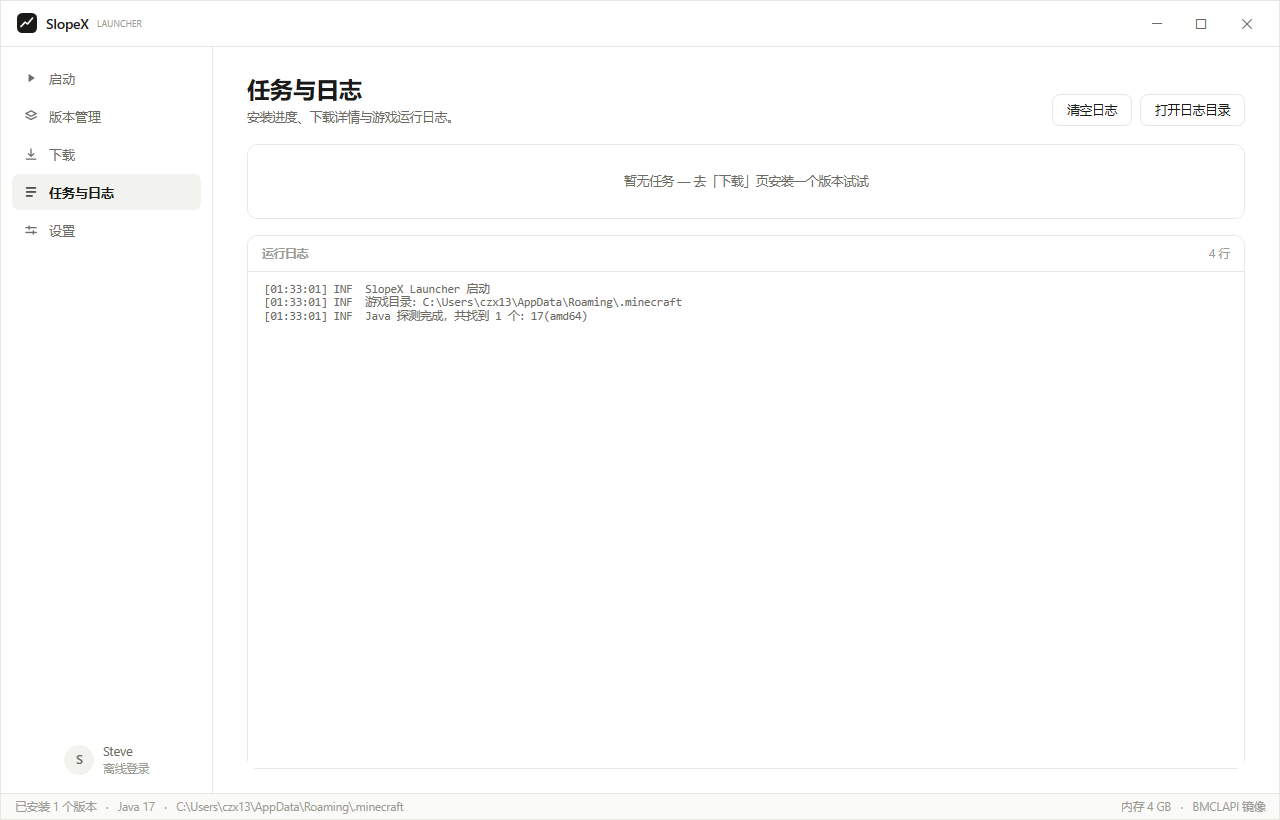
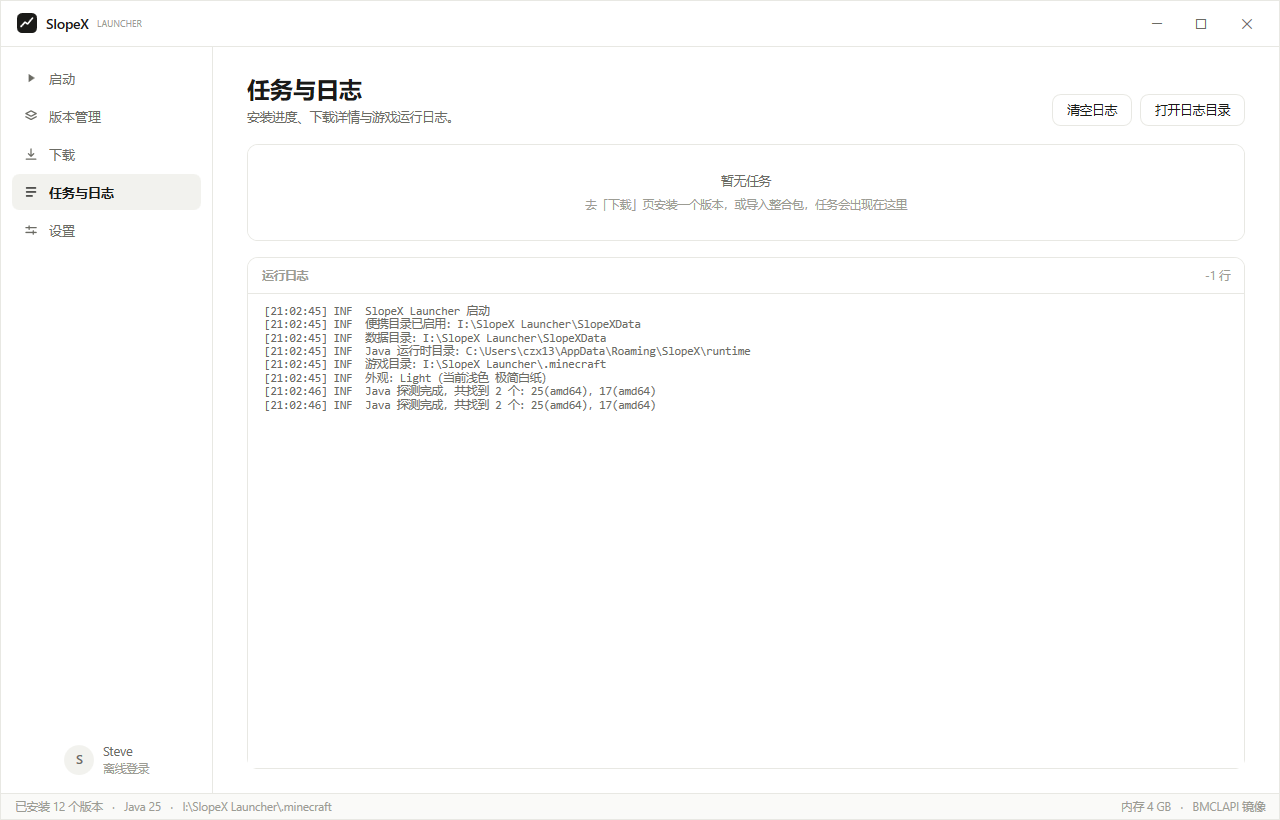
feat(ui): 视觉定案第一轮——Toast / 空状态 / 模态焦点循环
按 docs/design-language.md §5 的组件缺口推进，补 3 项：

- Toast：Style.xaml 新增 ToastCard/ToastText（反色底 Ink+OnInk、R8、MaxWidth 520）；
  MainWindow.ShowToast(text, 1600ms) 底部居中淡入淡出，重入时替换文字并重置计时；
  已用于设置保存、主题切换、打开版本目录
- EmptyState：新增 EmptyTitle / EmptyHint 两个样式；启动页、版本管理、任务与日志
  三处裸 TextBlock 全部替换，文案统一为「这里是什么 + 下一步做什么」
- 模态焦点陷阱：卡片加 KeyboardNavigation.TabNavigation/DirectionalNavigation=Cycle，
  Tab 不再跑到遮罩后的控件

工具：tools/screenshot.ps1 增加 -PostClickWaitMs，把"选页后等待"与"点击后等待"分开，
否则抓 1.6 秒的 Toast 时整页等待被压到 300ms、页面还没加载完。

文档：design-language.md §5 标注 3/7 已补并新增 §5.1 语义组件约定
（空状态不许再写裸 TextBlock；错误不用 Toast）；PROGRESS 同步状态与实测。

验证：msa-explain 四种状态码文案正确；任务页空状态浅色/深色均清晰；
设置页保存后 350ms 截到 Toast。

diff --git a/src/SlopeX/Themes/Style.xaml b/src/SlopeX/Themes/Style.xaml
@@ -523,6 +523,45 @@
         </Setter>
     </Style>
 
+    <!-- ============ 空状态 ============ -->
+    <!--
+        列表为空时统一用这两行：标题说明"这里是什么"，提示说明"下一步做什么"。
+        不要在页面里临时拼 TextBlock —— 字号、颜色、行距会各写一套。
+    -->
+    <Style x:Key="EmptyTitle" TargetType="TextBlock" BasedOn="{StaticResource TSub}">
+        <Setter Property="HorizontalAlignment" Value="Center"/>
+        <Setter Property="TextAlignment" Value="Center"/>
+    </Style>
+
+    <Style x:Key="EmptyHint" TargetType="TextBlock" BasedOn="{StaticResource TCaption}">
+        <Setter Property="HorizontalAlignment" Value="Center"/>
+        <Setter Property="TextAlignment" Value="Center"/>
+        <Setter Property="Margin" Value="0,7,0,0"/>
+        <Setter Property="Foreground" Value="{DynamicResource Muted}"/>
+    </Style>
+
+    <!-- ============ Toast 轻提示 ============ -->
+    <!--
+        非阻断反馈（已保存、已复制、已导入）。反色底（Ink）保证在任何页面底色上都读得清，
+        文字用 OnInk。由 MainWindow.ShowToast 控制显隐与时长。
+    -->
+    <Style x:Key="ToastCard" TargetType="Border">
+        <Setter Property="Background" Value="{DynamicResource Ink}"/>
+        <Setter Property="CornerRadius" Value="{StaticResource R8}"/>
+        <Setter Property="Padding" Value="16,10"/>
+        <Setter Property="HorizontalAlignment" Value="Center"/>
+        <Setter Property="VerticalAlignment" Value="Bottom"/>
+        <Setter Property="Margin" Value="0,0,0,26"/>
+        <Setter Property="SnapsToDevicePixels" Value="True"/>
+    </Style>
+
+    <Style x:Key="ToastText" TargetType="TextBlock">
+        <Setter Property="Foreground" Value="{DynamicResource OnInk}"/>
+        <Setter Property="FontSize" Value="12.5"/>
+        <Setter Property="TextWrapping" Value="Wrap"/>
+        <Setter Property="MaxWidth" Value="520"/>
+    </Style>
+
     <!-- ============ 转换器 ============ -->
     <ctl:BoolToVisibilityConverter x:Key="BoolToVis"/>
     <ctl:BoolToVisibilityConverter x:Key="BoolToVisInvert"/>

diff --git a/src/SlopeX/Windows/MainWindow.xaml b/src/SlopeX/Windows/MainWindow.xaml
@@ -196,11 +196,21 @@
                                HorizontalAlignment="Right" VerticalAlignment="Center"/>
                 </Grid>
             </Border>
+            <!-- ========== Toast 层（非阻断提示，不吃鼠标） ========== -->
+            <Grid x:Name="ToastLayer" Grid.RowSpan="3" IsHitTestVisible="False"
+                  Visibility="Collapsed" Opacity="0">
+                <Border x:Name="ToastBox" Style="{StaticResource ToastCard}">
+                    <TextBlock x:Name="ToastLabel" Style="{StaticResource ToastText}"/>
+                </Border>
+            </Grid>
+
             <!-- ========== 模态层（遮罩 + 居中卡片） ========== -->
             <Grid x:Name="ModalLayer" Grid.RowSpan="3" Visibility="Collapsed">
                 <Border Background="{DynamicResource Scrim}"/>
                 <Border Style="{StaticResource Card}" Width="520" Padding="22"
-                        HorizontalAlignment="Center" VerticalAlignment="Center">
+                        HorizontalAlignment="Center" VerticalAlignment="Center"
+                        KeyboardNavigation.TabNavigation="Cycle"
+                        KeyboardNavigation.DirectionalNavigation="Cycle">
                     <ContentControl x:Name="ModalHost"/>
                 </Border>
             </Grid>

diff --git a/src/SlopeX/Pages/PageVersions.xaml b/src/SlopeX/Pages/PageVersions.xaml
@@ -108,9 +108,13 @@
                     </ListBox.ItemTemplate>
                 </ListBox>
 
-                <TextBlock x:Name="EmptyText" Style="{StaticResource TSub}" HorizontalAlignment="Center"
-                           VerticalAlignment="Center" TextAlignment="Center" Visibility="Collapsed"
-                           Text="还没有安装任何版本&#x0a;点右上角「安装新版本」开始"/>
+                <StackPanel x:Name="EmptyPanel" HorizontalAlignment="Center" VerticalAlignment="Center"
+                            Visibility="Collapsed">
+                    <TextBlock x:Name="EmptyTitle" Style="{StaticResource EmptyTitle}"
+                               Text="还没有安装任何版本"/>
+                    <TextBlock x:Name="EmptyHintText" Style="{StaticResource EmptyHint}"
+                               Text="点右上角「安装新版本」开始，或导入一个整合包"/>
+                </StackPanel>
             </Grid>
         </Border>
     </Grid>

diff --git a/src/SlopeX/Pages/PageHome.xaml b/src/SlopeX/Pages/PageHome.xaml
@@ -166,8 +166,11 @@
                                     </DataTemplate>
                                 </ListBox.ItemTemplate>
                             </ListBox>
-                            <TextBlock x:Name="EmptyHint" Style="{StaticResource TCaption}" Margin="8,4,8,10"
-                                       Text="还没有安装任何版本。" Visibility="Collapsed"/>
+                            <StackPanel x:Name="EmptyPanel" Margin="8,6,8,12" Visibility="Collapsed">
+                                <TextBlock Style="{StaticResource EmptyTitle}" Text="还没有可启动的版本"/>
+                                <TextBlock Style="{StaticResource EmptyHint}"
+                                           Text="去「下载」页安装一个版本，装好会自动出现在这里"/>
+                            </StackPanel>
                         </StackPanel>
                     </Border>
 

diff --git a/src/SlopeX/Pages/PageTasks.xaml b/src/SlopeX/Pages/PageTasks.xaml
@@ -69,9 +69,12 @@
                     </ItemsControl>
                 </ScrollViewer>
 
-                <TextBlock x:Name="NoTaskText" Style="{StaticResource TSub}" HorizontalAlignment="Center"
-                           VerticalAlignment="Center" Margin="0,16,0,16"
-                           Text="暂无任务 — 去「下载」页安装一个版本试试"/>
+                <StackPanel x:Name="NoTaskPanel" HorizontalAlignment="Center" VerticalAlignment="Center"
+                            Margin="0,16,0,16">
+                    <TextBlock Style="{StaticResource EmptyTitle}" Text="暂无任务"/>
+                    <TextBlock Style="{StaticResource EmptyHint}"
+                               Text="去「下载」页安装一个版本，或导入整合包，任务会出现在这里"/>
+                </StackPanel>
             </Grid>
         </Border>
 

diff --git a/src/SlopeX/Windows/MainWindow.xaml.cs b/src/SlopeX/Windows/MainWindow.xaml.cs
@@ -3,6 +3,8 @@ using System.Linq;
 using System.Threading.Tasks;
 using System.Windows;
 using System.Windows.Controls;
+using System.Windows.Media.Animation;
+using System.Windows.Threading;
 using SlopeX.Modules.ModBase;
 using SlopeX.Modules.ModJava;
 using SlopeX.Modules.ModMinecraft;
@@ -156,5 +158,47 @@ namespace SlopeX.Windows
         }
 
         public bool IsModalOpen => ModalLayer.Visibility == Visibility.Visible;
+
+        // ---------------- Toast ----------------
+
+        private DispatcherTimer _toastTimer;
+
+        /// <summary>
+        /// 非阻断提示：底部居中出现，1.6 秒后淡出。
+        /// 用于"已保存 / 已复制 / 已导入"这类不需要用户操作、也不该弹框的反馈。
+        /// </summary>
+        public void ShowToast(string text, int milliseconds = 1600)
+        {
+            if (string.IsNullOrWhiteSpace(text)) return;
+
+            ToastLabel.Text = text;
+            ToastLayer.Visibility = Visibility.Visible;
+
+            // 重入：前一条还没消失时直接替换文字并重置计时，避免两条叠在一起
+            _toastTimer?.Stop();
+
+            AnimateToast(1.0, 120);
+
+            _toastTimer = new DispatcherTimer { Interval = TimeSpan.FromMilliseconds(milliseconds) };
+            _toastTimer.Tick += (s, e) =>
+            {
+                _toastTimer?.Stop();
+                AnimateToast(0.0, 220, onDone: () => ToastLayer.Visibility = Visibility.Collapsed);
+            };
+            _toastTimer.Start();
+        }
+
+        private void AnimateToast(double to, int ms, Action onDone = null)
+        {
+            var anim = new DoubleAnimation
+            {
+                To = to,
+                Duration = TimeSpan.FromMilliseconds(ms),
+                EasingFunction = new CubicEase { EasingMode = EasingMode.EaseOut }
+            };
+
+            anim.Completed += (s, e) => onDone?.Invoke();
+            ToastLayer.BeginAnimation(OpacityProperty, anim);
+        }
     }
 }

diff --git a/src/SlopeX/Pages/PageVersions.xaml.cs b/src/SlopeX/Pages/PageVersions.xaml.cs
@@ -57,14 +57,22 @@ namespace SlopeX.Pages
 
             if (list.Count == 0)
             {
-                EmptyText.Visibility = Visibility.Visible;
-                EmptyText.Text = _all.Count == 0
-                    ? "还没有安装任何版本\n点右上角「安装新版本」开始"
-                    : "没有匹配的版本";
+                EmptyPanel.Visibility = Visibility.Visible;
+
+                if (_all.Count == 0)
+                {
+                    EmptyTitle.Text = "还没有安装任何版本";
+                    EmptyHintText.Text = "点右上角「安装新版本」开始，或导入一个整合包";
+                }
+                else
+                {
+                    EmptyTitle.Text = "没有匹配的版本";
+                    EmptyHintText.Text = "换个关键词，或清空搜索框看全部";
+                }
             }
             else
             {
-                EmptyText.Visibility = Visibility.Collapsed;
+                EmptyPanel.Visibility = Visibility.Collapsed;
             }
         }
 
@@ -91,7 +99,11 @@ namespace SlopeX.Pages
 
         private void OpenOne_Click(object sender, RoutedEventArgs e)
         {
-            if (sender is Button b && b.Tag is string dir) OpenFolder(dir);
+            if (sender is Button b && b.Tag is string dir)
+            {
+                OpenFolder(dir);
+                MainWindow.Current?.ShowToast("已在资源管理器中打开版本目录");
+            }
             e.Handled = true;
         }
 

diff --git a/src/SlopeX/Pages/PageSettings.xaml.cs b/src/SlopeX/Pages/PageSettings.xaml.cs
@@ -243,6 +243,7 @@ namespace SlopeX.Pages
             UpdateThemeChips();
 
             MainWindow.Current?.SetStatus("主题已切换：" + ThemeName(ThemeService.IsDark), null);
+                MainWindow.Current?.ShowToast(ThemeName(ThemeService.IsDark) + " 已应用");
             Log.Info($"主题切换为 {Config.Current.Appearance}（{(ThemeService.IsDark ? "深色" : "浅色")}）");
         }
 
@@ -303,6 +304,7 @@ namespace SlopeX.Pages
                 RuntimeDirHint.Text = "当前生效：" + c.JavaRuntimeDirHint;
                 MainWindow.Current?.ApplyConfigChanged();
                 MainWindow.Current?.SetStatus("设置已保存", null);
+                MainWindow.Current?.ShowToast("设置已保存");
                 Log.Info("设置已保存");
             }
             catch (Exception ex)

diff --git a/src/SlopeX/Pages/PageHome.xaml.cs b/src/SlopeX/Pages/PageHome.xaml.cs
@@ -42,7 +42,7 @@ namespace SlopeX.Pages
                 var gameDir = Config.Current.GameDir;
                 _versions = VersionManager.Scan(gameDir);
                 RecentList.ItemsSource = _versions;
-                EmptyHint.Visibility = _versions.Count == 0 ? Visibility.Visible : Visibility.Collapsed;
+                EmptyPanel.Visibility = _versions.Count == 0 ? Visibility.Visible : Visibility.Collapsed;
 
                 _selected = _versions.FirstOrDefault(v => v.Id == Config.Current.LastVersion)
                             ?? _versions.FirstOrDefault();

diff --git a/src/SlopeX/Pages/PageTasks.xaml.cs b/src/SlopeX/Pages/PageTasks.xaml.cs
@@ -85,7 +85,7 @@ namespace SlopeX.Pages
 
         private void UpdateEmptyState()
         {
-            NoTaskText.Visibility = TaskCenter.Tasks.Count == 0 ? Visibility.Visible : Visibility.Collapsed;
+            NoTaskPanel.Visibility = TaskCenter.Tasks.Count == 0 ? Visibility.Visible : Visibility.Collapsed;
         }
 
         private void CancelTask_Click(object sender, RoutedEventArgs e)

diff --git a/docs/PROGRESS.md b/docs/PROGRESS.md
@@ -1,12 +1,12 @@
 # SlopeX Launcher 进度报告与实施计划
 
-> 首次生成：2026-10-29 02:32 ｜ 最近更新：2026-10-29 22:20
+> 首次生成：2026-10-29 02:32 ｜ 最近更新：2026-10-30 21:05
 > 对应产物：`SlopeX.exe` 1.0.0（自包含单文件，139 MB，win-x64）
-> 代码规模：40 个 C# / XAML 源文件，10,878 行
+> 代码规模：40 个 C# / XAML 源文件，≈11,000 行
 > 版本控制：git 分支 `feature/neoforge`（NeoForge 安装），`main` 保持可构建；远端已公开 `github.com/TwistzzzzSudo/SlopeX-Launcher`
-> 当前状态：**NeoForge 安装完成并真机验证**——26.3 + NeoForge 26.3.0.99 进游戏、AppleSkin 加载生效；四种加载器（原版/Fabric/Forge/NeoForge）+ 整合包导入均已可用；微软登录仍卡在 Mojang 白名单
-> 下一个执行项 = 模组管理（增删 / 冲突检测）或视觉定案（S3）
-> 本轮改动：新增 `NeoForge.cs` + `InstallerSupport.cs`（Forge/NeoForge 共用安装器执行、库预取）；CLI `neoforge-list|install-neoforge|fix-libs`；安装对话框放开 NeoForge
+> 当前状态：**进入视觉定案（S3）**——已补 Toast、空状态、模态焦点循环，组件缺口 3/7；登录错误已翻成可执行的中文提示；微软登录仍卡在 Mojang 白名单
+> 下一个执行项 = 视觉定案剩余项（ComboBox / DataList / ContextMenu / Steps / 动效）→ 模组管理
+> 本轮改动：`Msa.ExplainHttpError` 登录错误中文化 + CLI `msa-explain`；`Toast` / `EmptyState` 组件与三页统一；模态焦点循环；`tools/screenshot.ps1` 增加 `-PostClickWaitMs`
 > **工作量口径**：全文一律以「产出物 / 改动范围」描述，不使用时间估算。
 
 ---
@@ -59,6 +59,7 @@
 | **Fabric 安装** | ✅ | 拉 meta 选最新稳定加载器 → 写 `inheritsFrom` 版本 JSON → 下载加载器依赖；缺原版自动补装；已加载 Sodium 实测 |
 | **Forge 安装** | ✅ | 取官方推荐版本 → 下 installer → 用合适 Java 无头执行 `--installClient` → 校验产物；缺原版自动补装；已加载 AppleSkin 实测 |
 | **NeoForge 安装** | ✅ | MC 版本推导版本号 → 镜像取 installer → 预取 install_profile 依赖 → 无头执行 → 补运行期库；已加载 AppleSkin（NeoForge 版）实测 |
+| **登录错误提示** | ✅ | 403 未授权 / 401 / 429 / 5xx / 网络异常各有中文说法；403 那条直接告知「无状态查询页、约一周、再登录不报即通过」 |
 | **整合包导入** | ✅ | `.mrpack` / CurseForge zip / MultiMC 实例 / 普通 zip；自动补原版与加载器、下载模组、解压 overrides；已导入 Fabulously Optimized（149 模组）实测 |
 | **安装类型选择** | ✅ | 点「安装」弹出类型选择：原版 / Fabric / Forge / NeoForge 四选一；已安装版本仍可点（用于加装加载器或补齐文件） |
 | **便携（折中）** | ✅ | 配置与日志进 `SlopeXData\`，首次启用从 `%APPDATA%` 复制（原文件保留）；Java 运行时目录可配；目录不可写时整体回落 `%APPDATA%` |
@@ -332,6 +333,9 @@ UI 层        5 页 + 主窗口 + 控件 + 样式 + 双主题调色板 + ThemeSe
 | NeoForge 版本解析 | `neoforge-list 26.3` → 21 个版本、最新 26.3.0.99；`neoforge-list 1.21.1` → 260 个、最新 21.1.265；`1.20.1` 明确拒绝（该线为 net.neoforged:forge） |
 | NeoForge 安装 | 26.3 → 7.8 秒（依赖已预取）；`verify` 140 库通过、Java 25；真机 `Mod List: AppleSkin / Minecraft 26.3 / NeoForge 26.3.0.99`，`config/appleskin-client.toml` 已生成 |
 | 依赖补齐 | 首次安装后 `verify` 报 5 个缺失库，`fix-libs` 一次性补 63 个（含运行期库），补后校验通过 |
+| 登录错误文案 | `msa-explain 403 "Invalid app registration…"` → 输出「没有状态查询页 / 约一周 / 再登录不报即通过 / 可先用离线登录」；401、429、503 各自命中对应分支 |
+| 空状态组件 | 三处列表统一为「标题 + 提示」两行；任务页浅色、深色截图均清晰（深色下提示为 `Muted`，仍可读） |
+| Toast | 设置页点「保存设置」→ 底部居中深色提示条「设置已保存」，350ms 内截到淡入中间态 |
 | 安装类型对话框 | 点任意行「安装」→ 弹出居中卡片 + 遮罩；原版默认选中；Forge / NeoForge 置灰带「即将支持」；Esc 或「取消」关闭 |
 | 对话框端到端 | 已安装行 →「安装」→ 选 Fabric →「开始安装」→ 日志 `Fabric 0.20.1（26.3）安装完成：fabric-loader-0.20.1-26.3，依赖 7 个`，版本数 5 → 6 |
 | 便携迁移 | 首次运行后 `SlopeXData\config.json` 生成（含新字段 `JavaRuntimeDir` / `DismissLegacySavesHint`），`logs\` 已复制，`%APPDATA%\SlopeX\config.json` 保留未删 |

diff --git a/docs/design-language.md b/docs/design-language.md
@@ -126,19 +126,35 @@
 
 ---
 
-## 5. 组件缺口（S2 补齐）
+## 5. 组件缺口（S3 已补 3/7）
 
-以下控件**目前没有样式**，遇到时不要临时拼一个，先补样式再写页面：
+以下控件**目前没有样式**，遇到时不要临时拼一个，先补样式再写页面。
+状态更新：2026-10-30 视觉定案第一轮，补了 Toast、EmptyState、模态焦点循环（见 5.1）。
 
 | # | 组件 | 为什么需要 | 用在哪 |
 |---|---|---|---|
 | 1 | `ComboBox` 下拉 | 选择安装版本、Java 运行时、下载源 | 下载页、设置页 |
 | 2 | 多列列表 `DataList` | 列头 + 行（名称/版本/状态/操作） | 模组管理、整合包内容 |
-| 3 | `Dialog` 遮罩 + 容器 | **基础版已实现**：`MainWindow.ModalLayer`（`Scrim` 遮罩 + 居中 `Card`）+ `ShowModal/HideModal`，`Controls/InstallChoiceDialog` 是首个使用方。仍缺：通用调用封装、焦点陷阱（Tab 会跑到遮罩后的控件）、出入场动效 | 已用于「安装类型选择」 |
-| 4 | `Toast` 轻提示 | 非阻断反馈（已保存、已复制） | 全局 |
-| 5 | 空状态 `EmptyState` | 无版本 / 无模组 / 无任务 | 各列表页 |
+| 3 | `Dialog` 遮罩 + 容器 | ✅ 遮罩 + 居中卡片 + `ShowModal/HideModal`；焦点陷阱已补（卡片 `TabNavigation=Cycle`，Tab 不再跑到遮罩后）。仍缺：出入场动效 | 已用于「安装类型选择」 |
+| 4 | `Toast` 轻提示 | ✅ `MainWindow.ShowToast(text, ms)`：底部居中、反色底（`Ink`/`OnInk`）、淡入 120ms / 淡出 220ms，重复调用时替换文字并重置计时 | 全局（设置保存、主题切换、打开目录） |
+| 5 | 空状态 `EmptyState` | ✅ `EmptyTitle` + `EmptyHint` 两个样式（标题说明"这里是什么"，提示说明"下一步做什么"） | 启动 / 版本管理 / 任务与日志 |
 | 6 | 右键菜单 `ContextMenu` | 列表项操作（打开目录、删除） | 模组、版本 |
 | 7 | 步骤条 `Steps` | 多步流程（整合包导入） | 导入向导 |
+
+### 5.1 本轮新增的语义组件
+
+| 样式 / API | 用途 | 关键约束 |
+|---|---|---|
+| `EmptyTitle` | 空状态标题 | 基于 `TSub`，居中；6–12 字，只说明"这里是什么" |
+| `EmptyHint` | 空状态提示 | 基于 `TCaption`，`Muted` 色，`Margin=0,7,0,0`；说明"下一步做什么"，不超过一行 |
+| `ToastCard` / `ToastText` | 轻提示 | 反色底 `Ink` + 文字 `OnInk`，`R8` 圆角，`MaxWidth=520` |
+| `MainWindow.ShowToast(string, int ms = 1600)` | 调用入口 | 非阻断、不吃鼠标；同一时刻只有一条 |
+
+**用法约定**：
+- 空状态**不要**再写裸 `TextBlock` —— 三处页面已统一，新增列表照抄这两行样式即可。
+- Toast 只用于"做完了一件事"的确认（已保存 / 已复制 / 已打开）。**错误不要用 Toast**：错误需要用户看清并处理，走页面内的警告行或模态框。
+- Toast 时长固定 1.6 秒，不要再传自定义值——过长会挡住底部状态栏，过短看不清。
+
 
 ---
 
